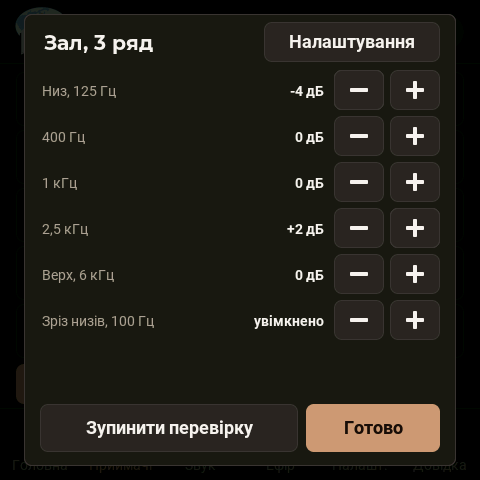
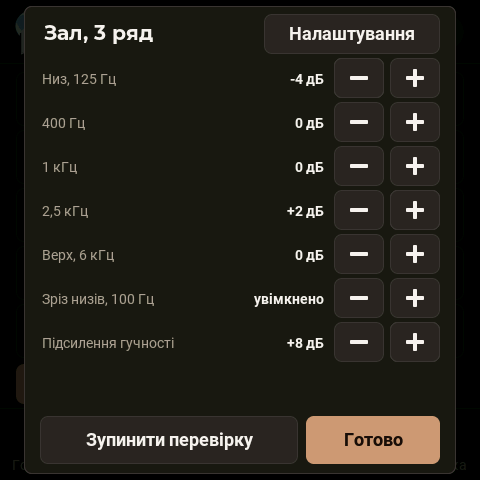
2.48 (not flashed yet): receiver volume boost with a peak-hold governor (menu item, transmitter row, port commands), docs

diff --git a/hearlink/txui.h b/hearlink/txui.h
@@ -116,6 +116,8 @@ struct View {
     bool hasEq = false;
     uint8_t lock = 0;                                // блокировка ручки (с 2.46): 0 — нет, 1 — меню, 2 — громкость, 3 — всё
     bool hasLock = false;
+    uint8_t boost = 0;                               // усиление (с 2.48): 0…12 = 0…+24 дБ
+    bool hasBoost = false;
     bool earTest = false;   // у приёмника идёт проверка наушников
   } rx[RX_MAX];
   int rxN = 0;
@@ -1731,9 +1733,9 @@ constexpr int RXS_N = 8;
 static const char *const RXS_NAME[RXS_N] = { "Вихід звуку", "Чіткість мови", "Баланс", "Межа гучності", "Вигляд екрана", "Світлодіод", "Мова написів", "Блокування ручки" };
 // Окно в два листа: настройки и эквалайзер (с 2.45) — строки и кнопки «−/+» те же, меняется их смысл.
 static int rxsPage;   // 0 — настройки, 1 — эквалайзер: строки 0…4 — полосы, 5 — срез низов, 6 — пусто
-static const char *const RXS_EQ_NAME[6] = { "Низ, 125 Гц", "400 Гц", "1 кГц", "2,5 кГц", "Верх, 6 кГц", "Зріз низів, 100 Гц" };
+static const char *const RXS_EQ_NAME[7] = { "Низ, 125 Гц", "400 Гц", "1 кГц", "2,5 кГц", "Верх, 6 кГц", "Зріз низів, 100 Гц", "Підсилення гучності" };
 static int rxsGet(const View::Rx &r, int row) {   // значение строки числом
-  if (rxsPage) return row < 5 ? (int)r.eq[row] - 6 : row == 5 ? r.lowCut : 0;
+  if (rxsPage) return row < 5 ? (int)r.eq[row] - 6 : row == 5 ? r.lowCut : row == 6 ? r.boost : 0;
   if (row == 7) return r.lock;
   return row == 0 ? (r.stereo ? 1 : 0) : row == 2 ? (int)r.par[1] - 5 : r.par[row - 1];
 }
@@ -1741,7 +1743,10 @@ static void rxsText(const View::Rx &r, int row, char *t, size_t n) {
   int v = rxsGet(r, row);
   if (rxsPage) {
     if (row < 5) snprintf(t, n, tr("%s%d дБ"), v > 0 ? "+" : "", v * 2);
-    else snprintf(t, n, "%s", row == 5 ? (v ? tr("увімкнено") : tr("вимкнено")) : "");
+    else if (row == 5) snprintf(t, n, "%s", v ? tr("увімкнено") : tr("вимкнено"));
+    else if (row == 6 && !r.hasBoost) snprintf(t, n, "—");
+    else if (row == 6 && v) snprintf(t, n, tr("%s%d дБ"), "+", v * 2);
+    else snprintf(t, n, "%s", row == 6 ? tr("вимкнено") : "");
     return;
   }
   switch (row) {
@@ -1763,7 +1768,7 @@ static void rxsText(const View::Rx &r, int row, char *t, size_t n) {
 static int rxsStep(const View::Rx &r, int row, int d) {
   static const int8_t LO[RXS_N] = { 0, 0, -5, 4, 0, 0, 0, 0 }, HI[RXS_N] = { 1, 3, 5, 20, 2, 3, 2, 3 };
   int v = rxsGet(r, row) + d;
-  if (rxsPage) return row < 5 ? (v < -6 ? -6 : v > 6 ? 6 : v) : row == 5 ? (v & 1) : 0;
+  if (rxsPage) return row < 5 ? (v < -6 ? -6 : v > 6 ? 6 : v) : row == 5 ? (v & 1) : row == 6 ? (v < 0 ? 0 : v > 12 ? 12 : v) : 0;
   if (row == 0 || row == 4 || row == 6) return v < LO[row] ? HI[row] : v > HI[row] ? LO[row] : v;
   return v < LO[row] ? LO[row] : v > HI[row] ? HI[row] : v;
 }
@@ -1785,7 +1790,8 @@ static void drawRxSetButton(int id, bool pressed) {
   int row = id - (plus ? ID_RXS_PLUS : ID_RXS_MINUS);
   bool dead = i >= 0 && !rxsPage && ((row == 2 && !view.rx[i].stereo) ||   // баланс при одном канале не к чему приложить
                                      (row == 7 && !view.rx[i].hasLock));    // блокировку понимают приёмники с 2.46
-  if (rxsPage && row >= 6) return g.fill(b.x, b.y, b.w, b.h, C_CARD);   // на листе эквалайзера шесть строк
+  if (i >= 0 && rxsPage && row == 6 && !view.rx[i].hasBoost) dead = true;   // усиление понимают приёмники с 2.48
+  if (rxsPage && row >= 7) return g.fill(b.x, b.y, b.w, b.h, C_CARD);   // на листе эквалайзера семь строк
   card(b, pressed && !dead ? m2::Gfx::blend(C_SECONDARY, C_FG, 40) : C_SECONDARY, C_BORDER);
   uint16_t ink = dead ? C_BORDER : C_FG;
   g.box(b.x + b.w / 2 - 9, b.y + b.h / 2 - 2, 18, 4, 1, ink);   // знаки — фигурами
@@ -1797,7 +1803,7 @@ static void drawRxSetRow(int row) {
   char t[40];
   int y = mBox.y + 52 + row * 44;
   g.fill(mBox.x + 16, y, mBox.w - 32 - 112, 40, C_CARD);
-  if (rxsPage && row >= 6) return;
+  if (rxsPage && row >= 7) return;
   g.text(mBox.x + 18, y + 26, tr(rxsPage ? RXS_EQ_NAME[row] : RXS_NAME[row]), F_CAP, C_MUTED_FG);
   rxsText(view.rx[i], row, t, sizeof(t));
   g.text(mBox.x + mBox.w - 16 - 116, y + 26, t, F_CAPB, C_FG, AL_R, 150);
@@ -1855,6 +1861,8 @@ static uint32_t rxsSum() {   // что сейчас показано: измен
   mix(r.hasEq);
   mix(r.lock);
   mix(r.hasLock);
+  mix(r.boost);
+  mix(r.hasBoost);
   mix(r.stereo);
   mix(r.earTest);
   mix(r.online);
@@ -1875,7 +1883,7 @@ static void drawRxSetModal() {
     drawRxSetRow(row);
     for (int id : { ID_RXS_MINUS + row, ID_RXS_PLUS + row }) {
       drawRxSetButton(id, false);
-      if (!(rxsPage && row >= 6)) hot[hotN++] = Hot{ rxsBox(id), id };
+      if (!(rxsPage && row >= 7)) hot[hotN++] = Hot{ rxsBox(id), id };
     }
   }
   for (int id : { ID_RXS_EAR, ID_RXS_OK }) {
@@ -2608,13 +2616,19 @@ static void activate(int id) {
       View::Rx &r = view.rx[i];
       bool plus = id >= ID_RXS_PLUS;
       int row = id - (plus ? ID_RXS_PLUS : ID_RXS_MINUS);
-      if (row > 5) return;
+      if (row > 6 || (row == 6 && !r.hasBoost)) return;
       int v = rxsStep(r, row, plus ? 1 : -1);
       if (v == rxsGet(r, row)) return;
-      if (row < 5) r.eq[row] = (uint8_t)(v + 6);
-      else r.lowCut = (uint8_t)v;
-      out.rxCmd = RXC_EQ;
-      out.rxArg = (row << 4) | (row < 5 ? r.eq[row] : r.lowCut);
+      if (row == 6) {   // усиление идёт командой настройки (RXP_X_BOOST), а не эквалайзера
+        r.boost = (uint8_t)v;
+        out.rxCmd = RXC_SET;
+        out.rxArg = (7 << 5) | v;
+      } else {
+        if (row < 5) r.eq[row] = (uint8_t)(v + 6);
+        else r.lowCut = (uint8_t)v;
+        out.rxCmd = RXC_EQ;
+        out.rxArg = (row << 4) | (row < 5 ? r.eq[row] : r.lowCut);
+      }
       drawRxSetRow(row);
       rxsShown = rxsSum();
     } else if (id >= ID_RXS_MINUS && id < ID_RXS_PLUS + RXS_N) {

diff --git a/hearlink/rxaudio.h b/hearlink/rxaudio.h
@@ -483,6 +483,7 @@ static inline float rxVolumeScaled(int step) {
 // Шесть звеньев второго порядка подряд: срез низов 100 Гц (12 дБ на октаву) и пять полос — «полка» 125 Гц, колокола
 // 400 Гц, 1 и 2,5 кГц (добротность 1), «полка» 6 кГц; каждая −12…+12 дБ шагом 2. Стоит после подгонки темпа и перед
 // «чёткостью», громкостью и ограничителем: подъём полос ограничитель удержит в шкале.
+static volatile float rxBoostNow = 1;   // во сколько раз усиление действует сейчас (после придержки) — для отчёта
 static bool rxQuietToSave(uint32_t dueMs, uint32_t maxMs);   // можно ли сейчас писать настройки (пауза в звуке) — см. ниже
 static volatile int rxEqPkIn, rxEqPkOut;   // наибольший отсчёт середины до и после эквалайзера с прошлого запроса n7=3
 static volatile uint32_t rxEqGen = 1;   // растёт при каждой смене настройки — задача звука пересчитывает звенья
@@ -534,6 +535,19 @@ static void rxTask(void *) {
   static int16_t out[OUT_BLOCK * 2];
   static Eq6 eq;
   uint32_t eqGen = 0;
+  // Усиление сверх «звука как есть» (с 2.48) — с придержкой. Усилить «в лоб» значит то же, что было до 2.40: на музыке,
+  // записанной во всю шкалу, ограничитель работает почти всё время и на каждом басе «заваливает» остальное (счёт на
+  // проверочной мелодии, +12 дБ: ограничитель глубже 1 дБ — 56 % времени, усиление качается на 3,1 дБ за 0,1 с).
+  // Поэтому усиление идёт только в то место, что осталось до полной шкалы: помним наибольший отсчёт (после громкости),
+  // держим его 0,7 с, потом отпускаем с постоянной 2,5 с, и усиливаем не больше, чем 29 500 / этот отсчёт. Тихий звук
+  // (речь с пульта на −12…−24 дБ) получает всё усиление, громкий — сколько помещается; после громкого места усиление
+  // возвращается за 2–3 с. Тот же счёт с придержкой: ограничитель глубже 1 дБ — 5,9 % времени, качание 0,4 дБ.
+  // Внезапный громкий звук ловит быстрый ограничитель (он стоит дальше), придержка подхватывает следом.
+  const int BOOST_HOLD = (int)(SRATE * 0.7f);
+  const float BOOST_REL = 1 - expf(-1.0f / (SRATE * 2.5f));
+  float bEnv = 0, bK = 1, boostWant = 1;
+  int bHold = 0;
+  uint8_t boostStep = 255;
   bool rsOk = rsBegin();   // памяти не нашлось — останется прежняя, кубическая
   if (!rxOutBegin()) {
     Serial.println("вихід звуку не запустився");
@@ -730,6 +744,14 @@ static void rxTask(void *) {
         winBlocks = 0;
       }
     }
+    {
+      uint8_t bs = cfg.rxBoost > 12 ? 0 : cfg.rxBoost;
+      if (bs != boostStep) {
+        boostStep = bs;
+        boostWant = powf(10.0f, bs * 0.1f);   // шаг 2 дБ
+      }
+      rxBoostNow = bK;
+    }
     if (eqGen != rxEqGen) {   // настройку эквалайзера сменили — пересчитать звенья (состояние остаётся: без щелчка)
       eqGen = rxEqGen;
       eq.build(cfg.rxEq, cfg.rxLowCut != 0);
@@ -870,6 +892,22 @@ static void rxTask(void *) {
       float yc = y + clK * (shM.run(y) - y), ysc = stOut ? ys + clK * (shS.run(ys) - ys) : 0;
       // левый и правый; в моно оба равны середине. Ограничитель общий — по большему из двух, чтобы не сдвигать звук вбок
       float vl = (yc + ysc) * gain, vr = (yc - ysc) * gain, av = fabsf(vl) > fabsf(vr) ? fabsf(vl) : fabsf(vr);
+      {   // усиление с придержкой (см. выше): av здесь — отсчёт после громкости, до усиления
+        if (av >= bEnv) {
+          bEnv = av;
+          bHold = BOOST_HOLD;
+        } else if (bHold) bHold--;
+        else bEnv += (av - bEnv) * BOOST_REL;
+        float bt = boostWant;
+        if (bt > 1) {
+          float room = 29500.0f / (bEnv + 1.0f);
+          if (bt > room) bt = room < 1 ? 1 : room;
+        }
+        bK += (bt - bK) * 0.002f;
+        vl *= bK;
+        vr *= bK;
+        av *= bK;
+      }
       {
         float need = av > limit ? limit / av : 1.0f;   // во сколько раз надо убавить, чтобы этот отсчёт уложился
         float dl = limL[limPos], dr = limR[limPos];    // отсчёт, пришедший LIM_LA назад, — он сейчас пойдёт на выход

diff --git a/hearlink/txpeers.h b/hearlink/txpeers.h
@@ -29,6 +29,7 @@ struct Peer {
   uint8_t par[RXP_COUNT];     // значения в том виде, как идут по радио (баланс — со сдвигом на 5)
   uint8_t earTest;            // у него идёт проверка наушников
   uint8_t fwMaj, fwMin;       // точная версия прошивки (приёмники с 2.42; у прежних — нули)
+  uint8_t boost;              // усиление приёмника (с 2.48): 0…12 = 0…+24 дБ
   uint8_t lock;               // блокировка ручки приёмника (с 2.46): 0 — нет, 1 — меню, 2 — громкость, 3 — всё
   uint8_t eq[5], lowCut;      // эквалайзер приёмника (с 2.45); hasEq — сообщает ли
   bool hasEq;
@@ -377,7 +378,7 @@ static void peerOnStatus(const uint8_t *data, int len, int8_t rssiHere) {
         peers[k].earTest = body[RXP_COUNT];
         peers[k].parSetMs = 0;
       }
-      peers[k].fwMaj = body[RXP_COUNT + 1];
+      peers[k].fwMaj = body[RXP_COUNT + 1] & 15;   // в старших битах — усиление (с 2.48)
       peers[k].fwMin = body[RXP_COUNT + 2];
       peers[k].hasEq = body[RXP_COUNT + 5] & 0x80;
       if (!peers[k].parSetMs || msSince(peers[k].parSetMs) > 2500) {
@@ -385,6 +386,7 @@ static void peerOnStatus(const uint8_t *data, int len, int8_t rssiHere) {
         peers[k].eq[0] = e[0] & 15; peers[k].eq[1] = e[0] >> 4; peers[k].eq[2] = e[1] & 15; peers[k].eq[3] = e[1] >> 4;
         peers[k].eq[4] = e[2] & 15; peers[k].lowCut = (e[2] >> 4) & 1;
         peers[k].lock = (e[2] >> 5) & 3;
+        peers[k].boost = body[RXP_COUNT + 1] >> 4;
       }
       peers[k].hasInfo = true;
     }
@@ -632,8 +634,8 @@ static void peersPrint() {
       Serial.printf("    налаштування: чіткість %u, баланс %d, межа гучності %u, вигляд %u, світлодіод %u, мова %u%s\n", p.par[RXP_CLARITY], (int)p.par[RXP_BALANCE] - 5,
                     p.par[RXP_VOLMAX], p.par[RXP_VIEW], p.par[RXP_LED], p.par[RXP_LANG], p.earTest ? "; іде перевірка навушників" : "");
     if (p.hasEq)   // приёмники с 2.45: эквалайзер и (с 2.46) блокировка ручки
-      Serial.printf("    еквалайзер %d %d %d %d %d дБ, зріз низів %u; блокування ручки %u (0 немає, 1 меню, 2 гучність, 3 усе); прошивка %u.%02u\n",
-                    (p.eq[0] - 6) * 2, (p.eq[1] - 6) * 2, (p.eq[2] - 6) * 2, (p.eq[3] - 6) * 2, (p.eq[4] - 6) * 2, p.lowCut, p.lock, p.fwMaj, p.fwMin);
+      Serial.printf("    еквалайзер %d %d %d %d %d дБ, зріз низів %u; блокування ручки %u (0 немає, 1 меню, 2 гучність, 3 усе); підсилення +%u дБ; прошивка %u.%02u\n",
+                    (p.eq[0] - 6) * 2, (p.eq[1] - 6) * 2, (p.eq[2] - 6) * 2, (p.eq[3] - 6) * 2, (p.eq[4] - 6) * 2, p.lowCut, p.lock, p.boost * 2, p.fwMaj, p.fwMin);
   }
   if (!n) Serial.println("  приймачів у списку немає");
 }

diff --git a/tools/lang_en.py b/tools/lang_en.py
@@ -405,7 +405,7 @@ PAIRS = [
     (r"як передавач", r"auto"), (r"українська", r"українська"),
     (r"легка", r"light"), (r"середня", r"medium"), (r"сильна", r"strong"),
     (r"1 канал", r"1 channel"), (r"рівно", r"centre"), (r"ліве +%d", r"left +%d"), (r"праве +%d", r"right +%d"),
-    (r"тест", r"test"), (r"%d дБм", r"%d dBm"), (r"Межа гучності", r"Volume limit"), (r"Еквалайзер", r"Equalizer"), (r"Еквалайзер входу", r"Input equalizer"), (r"Блокування ручки", r"Knob lock"), (r"меню", r"menu"), (r"усе", r"all"), (r"немає", r"none"),
+    (r"тест", r"test"), (r"%d дБм", r"%d dBm"), (r"Межа гучності", r"Volume limit"), (r"Еквалайзер", r"Equalizer"), (r"Еквалайзер входу", r"Input equalizer"), (r"Блокування ручки", r"Knob lock"), (r"Підсилення", r"Boost"), (r"Підсилення гучності", r"Volume boost"), (r"меню", r"menu"), (r"усе", r"all"), (r"немає", r"none"),
     (r"Заблоковано", r"Locked"), (r"Розблоковано", r"Unlocked"),
     (r"Автооновлення: увімкнено", r"Auto-update: on"), (r"Автооновлення: вимкнено", r"Auto-update: off"), (r"Для всіх приймачів", r"For all receivers"), (r"Низ, 125 Гц", r"Bass, 125 Hz"), (r"400 Гц", r"400 Hz"),
     (r"1 кГц", r"1 kHz"), (r"2,5 кГц", r"2.5 kHz"), (r"Верх, 6 кГц", r"Treble, 6 kHz"), (r"Зріз низів, 100 Гц", r"Low cut, 100 Hz"),

diff --git a/hearlink/proto.h b/hearlink/proto.h
@@ -220,6 +220,9 @@ enum { RXP_CLARITY = 0, RXP_BALANCE, RXP_VOLMAX, RXP_VIEW, RXP_LED, RXP_LANG, RX
 // Блокировка ручки (с 2.46) идёт той же командой CMD_SET под номером 6, но в массив RxInfo.p[] не входит (его длина —
 // часть вида сообщения): приёмник сообщает её двумя битами в RxInfo.spare[4] (биты 5–6).
 #define RXP_X_LOCK 6
+// Усиление приёмника (с 2.48) — той же командой под номером 7, значение 0…12 (0…+24 дБ шагом 2). Приёмник сообщает
+// его старшими четырьмя битами RxInfo.spare[0] (в младших — старшая цифра версии).
+#define RXP_X_BOOST 7
 // О них приёмник сообщает передатчику отдельным коротким сообщением вслед за сведениями о себе (тот же признак
 // MAGIC_STATUS, другая длина). Передатчик с прошивкой до 2.32 такую длину не знает и молча пропускает — прежние
 // сообщения не тронуты, поэтому старый передатчик видит новый приёмник как раньше.

diff --git a/hearlink/config.h b/hearlink/config.h
@@ -132,6 +132,10 @@ struct Settings {
   // передатчика, включая блокировку управления, громкости или меню»): 0 — нет, 1 — меню (долгое нажатие), 2 — громкость
   // (поворот и «тиша» нажатием), 3 — всё. С передатчика при этом всё меняется по-прежнему.
   uint8_t rxLock = 0;
+  // приёмник, с 2.48: цифровое усиление сверх «звука как есть» (владелец 09.10: «требуется добавить цифровой настраиваемый
+  // буст громкости на приемниках — усилитель наушников не очень вытягивает громкость»): 0…12 = 0…+24 дБ шагом 2.
+  // Тихий звук усиливается полностью, громкий — насколько есть место до полной шкалы (см. rxaudio.h, «придержка»).
+  uint8_t rxBoost = 0;
   // новые настройки добавлять в конец: запись от старой версии короче, и прежние поля не слетают
 };
 extern Settings cfg;

diff --git a/tools/sim/sim.cpp b/tools/sim/sim.cpp
@@ -276,6 +276,7 @@ int main() {
     View::Rx &r = view.rx[0];
     r.hasInfo = true;
     r.hasLock = true;
+    r.hasBoost = true;
     r.stereo = true;
     const uint8_t par[6] = { 2, 5 + 2, 14, 1, 2, 0 };   // чёткость «середня», баланс «праве +2», предел 70 %, стрелки, норма, как у передатчика
     memcpy(r.par, par, 6);
@@ -304,6 +305,8 @@ int main() {
     { Box b = rxsBox(ID_RXS_PAGE); tap(b.x + 20, b.y + 20); }
     { Box b = rxsBox(ID_RXS_MINUS + 0); tap(b.x + 20, b.y + 20); tap(b.x + 20, b.y + 20); }   // низ: −4 дБ
     { Box b = rxsBox(ID_RXS_PLUS + 3); tap(b.x + 20, b.y + 20); }                              // 2,5 кГц: +2 дБ
+    { Box b = rxsBox(ID_RXS_PLUS + 6); for (int k = 0; k < 4; k++) tap(b.x + 20, b.y + 20); }   // усиление: +8 дБ
+    printf("усиление: команда %d, значение %d\n", out.rxCmd, out.rxArg);
     save("18g-ekvalaizer");
     { Box b = rxsBox(ID_RXS_PAGE); tap(b.x + 20, b.y + 20); }
     save("18h-nazad-do-nalashtuvan");

diff --git a/hearlink/ui_tx.h b/hearlink/ui_tx.h
@@ -526,6 +526,8 @@ static void task(void *) {
         r.hasEq = p.hasEq;
         r.lock = p.lock;
         r.hasLock = p.hasInfo && (p.fwMaj > 2 || (p.fwMaj == 2 && p.fwMin >= 46));
+        r.boost = p.boost > 12 ? 0 : p.boost;
+        r.hasBoost = p.hasInfo && (p.fwMaj > 2 || (p.fwMaj == 2 && p.fwMin >= 48));
         r.earTest = p.earTest;
       }
       portEXIT_CRITICAL(&peerMux);
@@ -813,6 +815,7 @@ static void task(void *) {
             peerCommand(p.id, CMD_SET, (uint8_t)o.rxArg);
             if ((o.rxArg >> 5) < RXP_COUNT) p.par[o.rxArg >> 5] = o.rxArg & 31;
             else if ((o.rxArg >> 5) == RXP_X_LOCK) p.lock = o.rxArg & 3;
+            else if ((o.rxArg >> 5) == RXP_X_BOOST) p.boost = o.rxArg & 31;
             p.parSetMs = now ? now : 1;
             break;
           case ui::RXC_EQ:   // эквалайзер: полоса × 16 + значение

diff --git a/tools/simrx/sim.cpp b/tools/simrx/sim.cpp
@@ -118,6 +118,10 @@ int main() {
     float k = t < 1900 ? rxs::phase(t, 0, 260) : 1 - rxs::phase(t, 1900, 200);
     rxs::toast(&g, "Сигнал відновлено", k);
   }, { 80, 160, 600, 2000 });
+  scene("5б меню: підсилення", 600, [](uint32_t t) {   // новый пункт и его значок (динамик с плюсом)
+    static const rxs::MenuRow R[] = { { "Баланс", "рівно", 13 }, { "Межа гучн.", "100 %", 14 }, { "Підсилення", "+8 дБ", 17 }, { "Навушники", "тест", 15 } };
+    rxs::menuList(&g, t, R, 4, 2, 0, false);
+  }, { 300 });
   scene("7г2 заблоковано", 1200, [](uint32_t t) {   // ручку заблокировали с передатчика
     mainScreen(t);
     rxs::toast(&g, "Заблоковано", 1);

diff --git a/hearlink/rxscreens.h b/hearlink/rxscreens.h
@@ -956,6 +956,14 @@ static void menuIcon(u8g2_t *g, int id, int x, int y) {   // значок 9×9, 
       u8g2_DrawLine(g, x + 2, y + 4, x + 5, y + 6);
       u8g2_DrawLine(g, x + 5, y + 6, x + 8, y + 1);
       break;
+    case 17:  // усиление: динамик и «плюс»
+      u8g2_DrawBox(g, x, y + 3, 2, 3);
+      u8g2_DrawLine(g, x + 2, y + 3, x + 4, y + 1);
+      u8g2_DrawLine(g, x + 2, y + 5, x + 4, y + 7);
+      u8g2_DrawVLine(g, x + 4, y + 1, 7);
+      u8g2_DrawHLine(g, x + 6, y + 4, 3);
+      u8g2_DrawVLine(g, x + 7, y + 3, 3);
+      break;
     default:  // назад: стрелка
       u8g2_DrawHLine(g, x + 1, y + 4, 7);
       u8g2_DrawLine(g, x + 1, y + 4, x + 4, y + 1);
